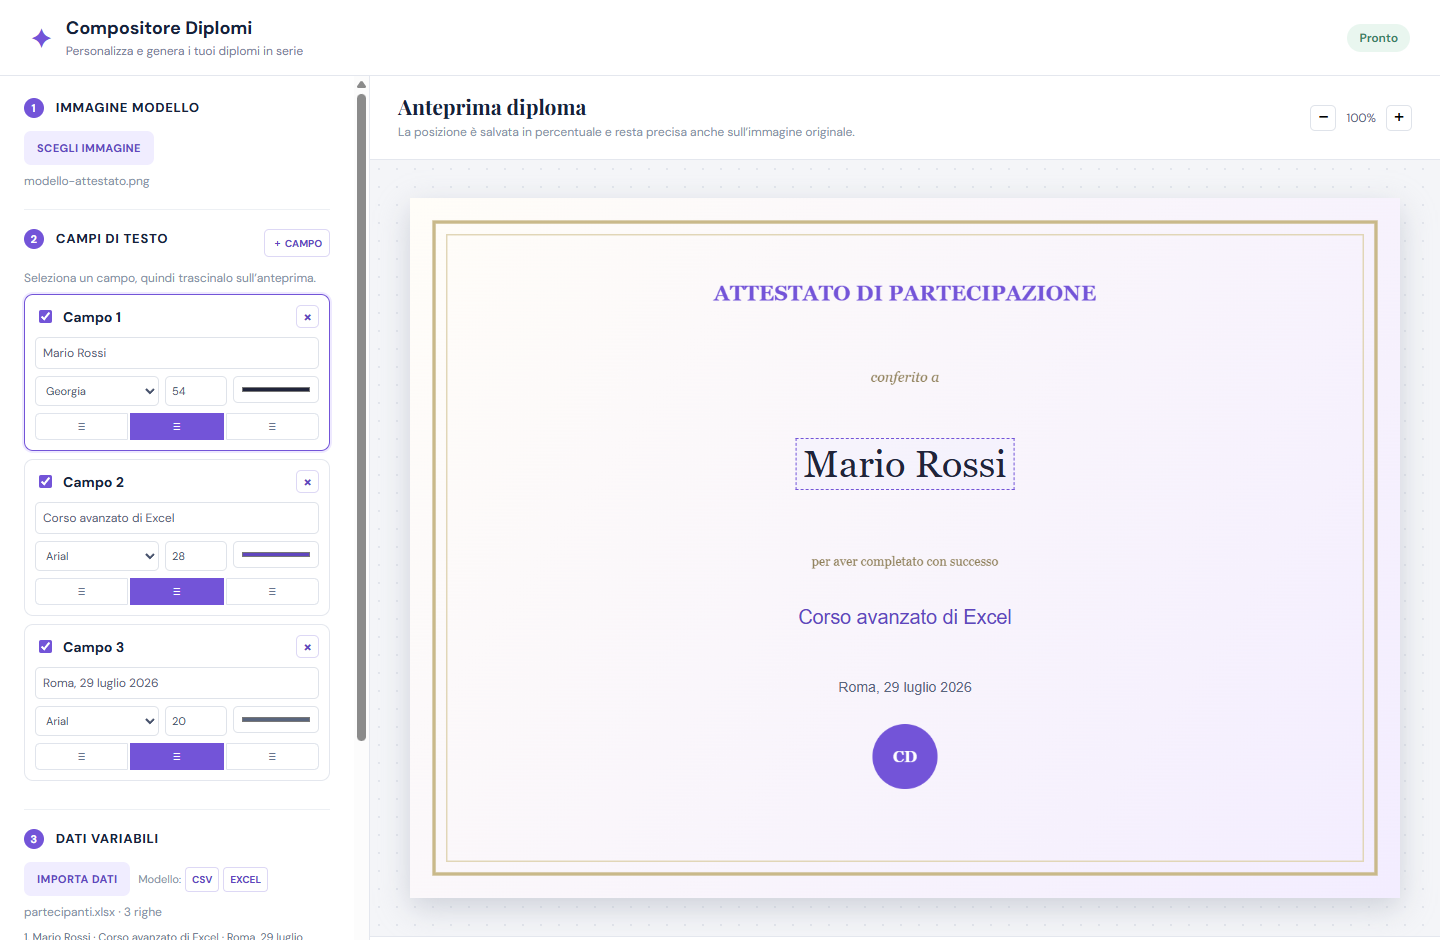
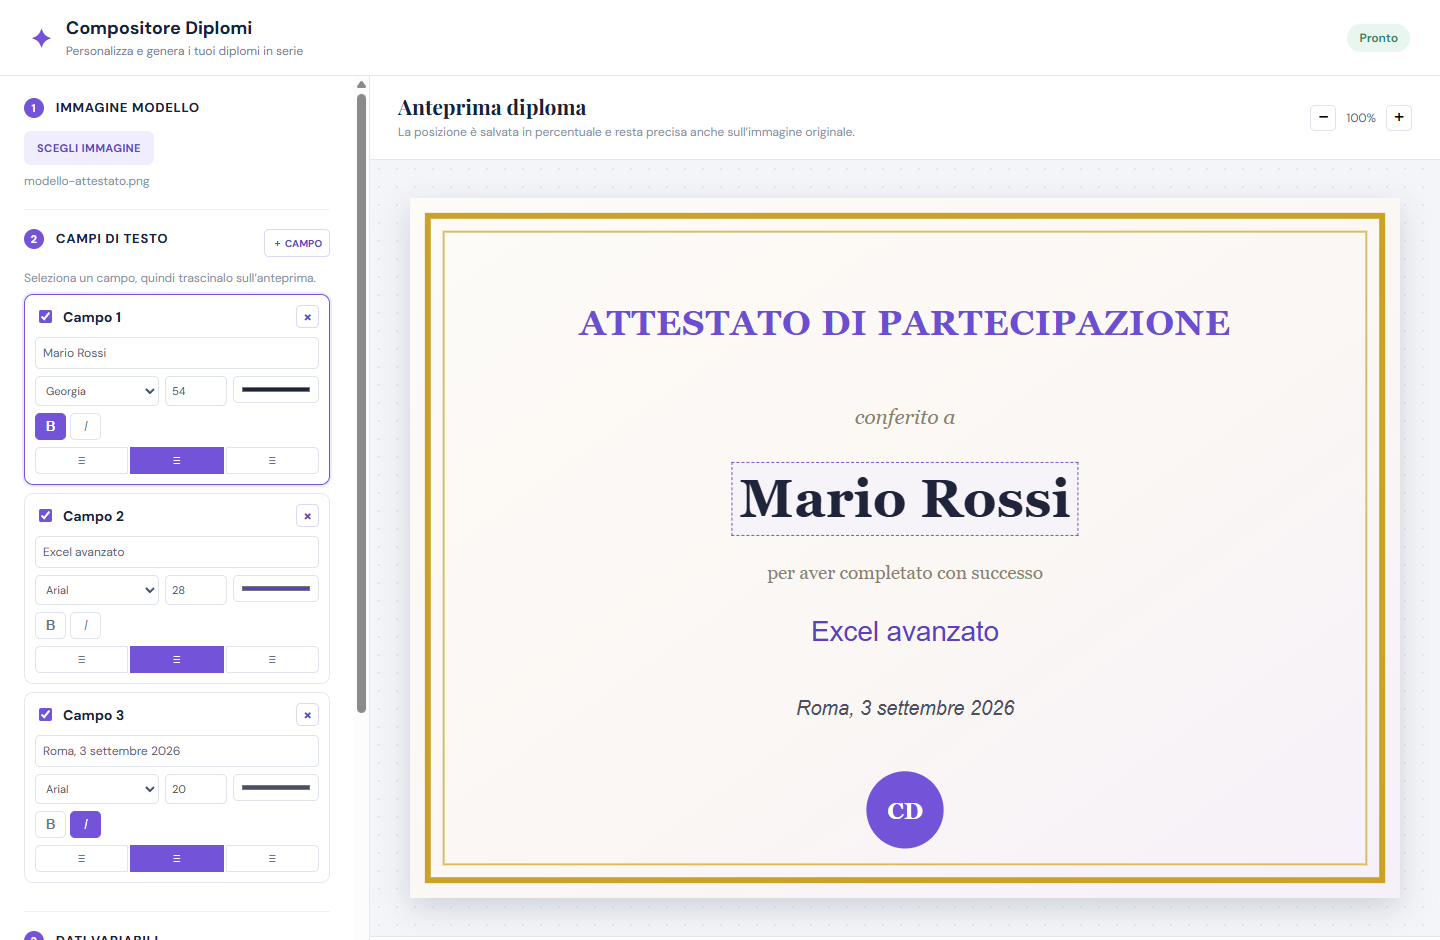
docs: refresh screenshots with the new generation options
Recapture both README screenshots from the real Electron window so they
show the bold/italic toggles on the text fields and the prefix, suffix
and output format controls in the generation modal.

diff --git a/README.md b/README.md
@@ -6,7 +6,8 @@ Applicazione desktop Windows per creare in batch immagini di diplomi o attestati
 
 ![Interfaccia principale di Compositore Diplomi](docs/screenshots/app-principale.png)
 
-La composizione del nome dei file permette di scegliere prefisso, campi e separatore:
+La maschera di generazione permette di comporre il nome dei file con prefisso, suffisso, campi
+e separatore, e di scegliere il formato di uscita:
 
 ![Maschera per comporre il nome dei file generati](docs/screenshots/composizione-nome-file.png)
 
